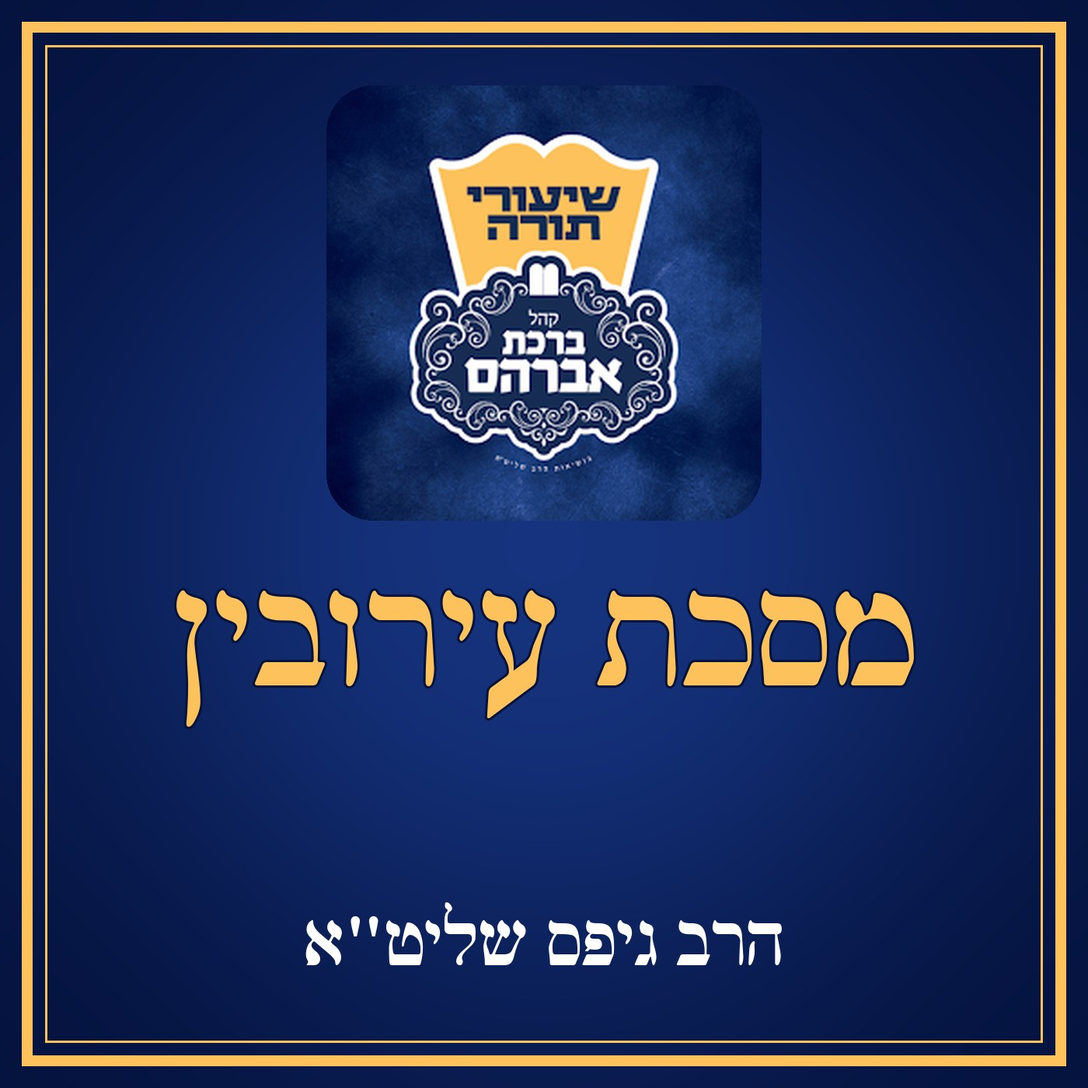
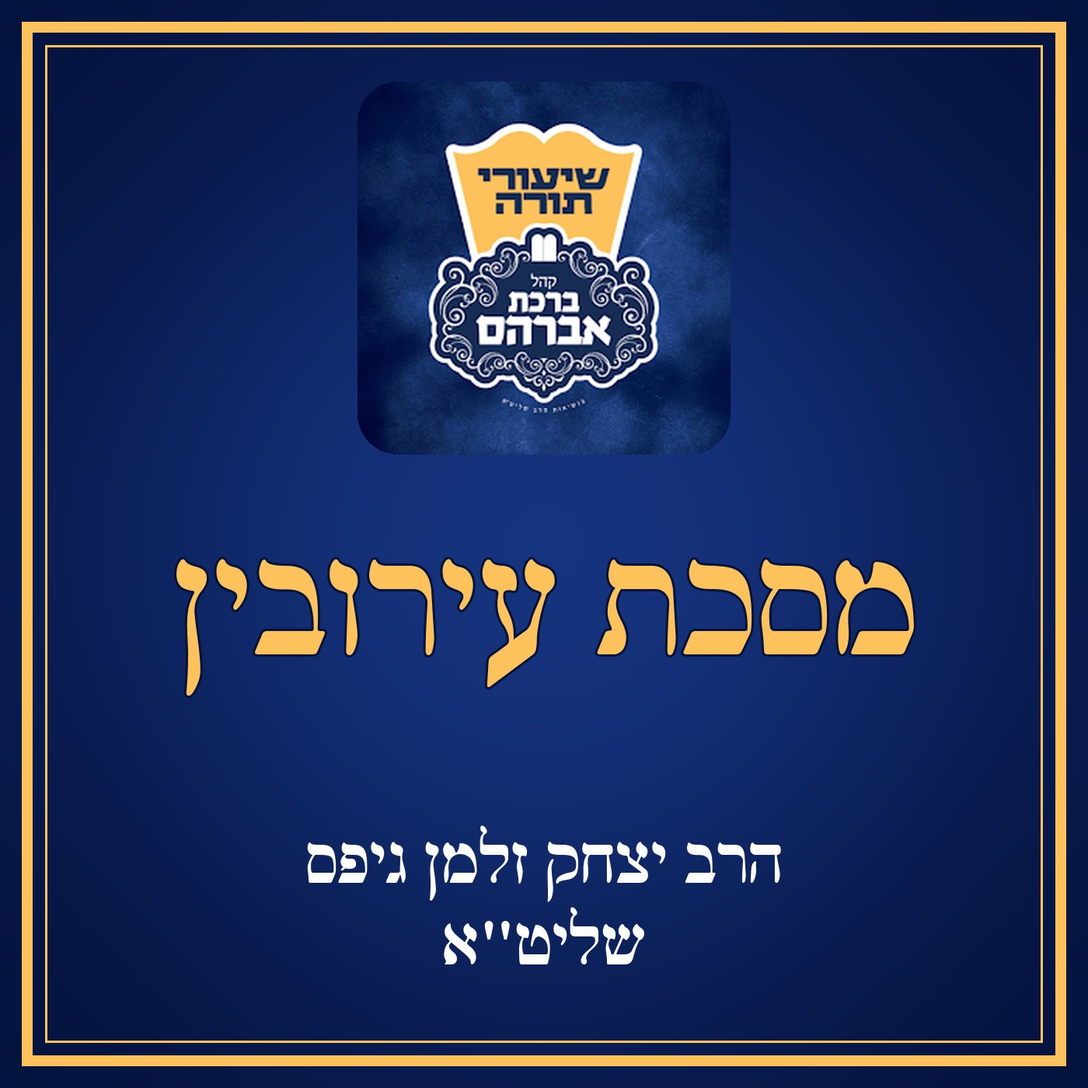
Topic feeds: the Rav's full name (2 lines) on the covers and in the feed titles
Claude-Session: https://claude.ai/code/session_015CinZxjiUn4CXjG9nStS5w

Changed region(s): [[0.1536, 0.0921, 0.86, 0.6757], [0.2764, 0.7679, 0.7371, 0.8907]]

diff --git a/app/podcasts/index.html b/app/podcasts/index.html
@@ -1,26 +1,26 @@
-<!doctype html><meta charset=utf-8><meta name=viewport content='width=device-width,initial-scale=1'><title>Podcast feeds</title><style>body{font-family:sans-serif;margin:16px}td{padding:6px;border-bottom:1px solid #ddd;vertical-align:middle}a{word-break:break-all}</style><h2>Rabbi Gips - podcast feeds by topic</h2><table><tr><td><img src="https://rssfeedcategories.github.io/shiur-site/app/podcasts/covers/mishna-berura.jpg" width="56" height="56"></td><td dir="rtl"><b>משנה ברורה</b><br><small>1045 שיעורים · 2026-11-22</small></td><td><a href="https://rssfeedcategories.github.io/shiur-site/app/podcasts/mishna-berura.xml">https://rssfeedcategories.github.io/shiur-site/app/podcasts/mishna-berura.xml</a></td></tr>
-<tr><td><img src="https://rssfeedcategories.github.io/shiur-site/app/podcasts/covers/mishlei-machzor-1.jpg" width="56" height="56"></td><td dir="rtl"><b>ספר משלי - מחזור א&#x27;</b><br><small>289 שיעורים · 2026-09-10</small></td><td><a href="https://rssfeedcategories.github.io/shiur-site/app/podcasts/mishlei-machzor-1.xml">https://rssfeedcategories.github.io/shiur-site/app/podcasts/mishlei-machzor-1.xml</a></td></tr>
-<tr><td><img src="https://rssfeedcategories.github.io/shiur-site/app/podcasts/covers/kad-hakemach.jpg" width="56" height="56"></td><td dir="rtl"><b>כד הקמח לרבינו בחיי</b><br><small>270 שיעורים · 2025-01-20</small></td><td><a href="https://rssfeedcategories.github.io/shiur-site/app/podcasts/kad-hakemach.xml">https://rssfeedcategories.github.io/shiur-site/app/podcasts/kad-hakemach.xml</a></td></tr>
-<tr><td><img src="https://rssfeedcategories.github.io/shiur-site/app/podcasts/covers/gemara-shabbos.jpg" width="56" height="56"></td><td dir="rtl"><b>מסכת שבת - שיעור יומי גמרא</b><br><small>211 שיעורים · 2024-12-20</small></td><td><a href="https://rssfeedcategories.github.io/shiur-site/app/podcasts/gemara-shabbos.xml">https://rssfeedcategories.github.io/shiur-site/app/podcasts/gemara-shabbos.xml</a></td></tr>
-<tr><td><img src="https://rssfeedcategories.github.io/shiur-site/app/podcasts/covers/gemara-kiddushin.jpg" width="56" height="56"></td><td dir="rtl"><b>מסכת קידושין - שיעור יומי גמרא</b><br><small>180 שיעורים · 2023-10-13</small></td><td><a href="https://rssfeedcategories.github.io/shiur-site/app/podcasts/gemara-kiddushin.xml">https://rssfeedcategories.github.io/shiur-site/app/podcasts/gemara-kiddushin.xml</a></td></tr>
-<tr><td><img src="https://rssfeedcategories.github.io/shiur-site/app/podcasts/covers/chovos-halevavos.jpg" width="56" height="56"></td><td dir="rtl"><b>חובות הלבבות</b><br><small>169 שיעורים · 2023-07-28</small></td><td><a href="https://rssfeedcategories.github.io/shiur-site/app/podcasts/chovos-halevavos.xml">https://rssfeedcategories.github.io/shiur-site/app/podcasts/chovos-halevavos.xml</a></td></tr>
-<tr><td><img src="https://rssfeedcategories.github.io/shiur-site/app/podcasts/covers/tefillah.jpg" width="56" height="56"></td><td dir="rtl"><b>תפילה</b><br><small>166 שיעורים · 2022-08-05</small></td><td><a href="https://rssfeedcategories.github.io/shiur-site/app/podcasts/tefillah.xml">https://rssfeedcategories.github.io/shiur-site/app/podcasts/tefillah.xml</a></td></tr>
-<tr><td><img src="https://rssfeedcategories.github.io/shiur-site/app/podcasts/covers/gemara-pesachim.jpg" width="56" height="56"></td><td dir="rtl"><b>מסכת פסחים - שיעור יומי גמרא</b><br><small>161 שיעורים · 2026-03-05</small></td><td><a href="https://rssfeedcategories.github.io/shiur-site/app/podcasts/gemara-pesachim.xml">https://rssfeedcategories.github.io/shiur-site/app/podcasts/gemara-pesachim.xml</a></td></tr>
-<tr><td><img src="https://rssfeedcategories.github.io/shiur-site/app/podcasts/covers/gemara-eruvin.jpg" width="56" height="56"></td><td dir="rtl"><b>מסכת עירובין - שיעור יומי גמרא</b><br><small>145 שיעורים · 2025-07-22</small></td><td><a href="https://rssfeedcategories.github.io/shiur-site/app/podcasts/gemara-eruvin.xml">https://rssfeedcategories.github.io/shiur-site/app/podcasts/gemara-eruvin.xml</a></td></tr>
-<tr><td><img src="https://rssfeedcategories.github.io/shiur-site/app/podcasts/covers/kuzari.jpg" width="56" height="56"></td><td dir="rtl"><b>ספר הכוזרי</b><br><small>130 שיעורים · 2023-01-18</small></td><td><a href="https://rssfeedcategories.github.io/shiur-site/app/podcasts/kuzari.xml">https://rssfeedcategories.github.io/shiur-site/app/podcasts/kuzari.xml</a></td></tr>
-<tr><td><img src="https://rssfeedcategories.github.io/shiur-site/app/podcasts/covers/dvar-torah-parsha.jpg" width="56" height="56"></td><td dir="rtl"><b>ד&quot;ת על הפרשה</b><br><small>113 שיעורים · 2026-11-20</small></td><td><a href="https://rssfeedcategories.github.io/shiur-site/app/podcasts/dvar-torah-parsha.xml">https://rssfeedcategories.github.io/shiur-site/app/podcasts/dvar-torah-parsha.xml</a></td></tr>
-<tr><td><img src="https://rssfeedcategories.github.io/shiur-site/app/podcasts/covers/shaarei-teshuva.jpg" width="56" height="56"></td><td dir="rtl"><b>שערי תשובה</b><br><small>111 שיעורים · 2026-09-24</small></td><td><a href="https://rssfeedcategories.github.io/shiur-site/app/podcasts/shaarei-teshuva.xml">https://rssfeedcategories.github.io/shiur-site/app/podcasts/shaarei-teshuva.xml</a></td></tr>
-<tr><td><img src="https://rssfeedcategories.github.io/shiur-site/app/podcasts/covers/gemara-yoma.jpg" width="56" height="56"></td><td dir="rtl"><b>מסכת יומא - שיעור יומי גמרא</b><br><small>109 שיעורים · 2026-09-30</small></td><td><a href="https://rssfeedcategories.github.io/shiur-site/app/podcasts/gemara-yoma.xml">https://rssfeedcategories.github.io/shiur-site/app/podcasts/gemara-yoma.xml</a></td></tr>
-<tr><td><img src="https://rssfeedcategories.github.io/shiur-site/app/podcasts/covers/inyanei-shabbos.jpg" width="56" height="56"></td><td dir="rtl"><b>עניני שבת קודש</b><br><small>109 שיעורים · 2023-07-03</small></td><td><a href="https://rssfeedcategories.github.io/shiur-site/app/podcasts/inyanei-shabbos.xml">https://rssfeedcategories.github.io/shiur-site/app/podcasts/inyanei-shabbos.xml</a></td></tr>
-<tr><td><img src="https://rssfeedcategories.github.io/shiur-site/app/podcasts/covers/koheles.jpg" width="56" height="56"></td><td dir="rtl"><b>ספר קהלת</b><br><small>105 שיעורים · 2025-04-09</small></td><td><a href="https://rssfeedcategories.github.io/shiur-site/app/podcasts/koheles.xml">https://rssfeedcategories.github.io/shiur-site/app/podcasts/koheles.xml</a></td></tr>
-<tr><td><img src="https://rssfeedcategories.github.io/shiur-site/app/podcasts/covers/shmiras-halashon.jpg" width="56" height="56"></td><td dir="rtl"><b>שמירת הלשון</b><br><small>94 שיעורים · 2023-10-17</small></td><td><a href="https://rssfeedcategories.github.io/shiur-site/app/podcasts/shmiras-halashon.xml">https://rssfeedcategories.github.io/shiur-site/app/podcasts/shmiras-halashon.xml</a></td></tr>
-<tr><td><img src="https://rssfeedcategories.github.io/shiur-site/app/podcasts/covers/gemara-brachos.jpg" width="56" height="56"></td><td dir="rtl"><b>מסכת ברכות - שיעור יומי גמרא</b><br><small>89 שיעורים · 2024-02-15</small></td><td><a href="https://rssfeedcategories.github.io/shiur-site/app/podcasts/gemara-brachos.xml">https://rssfeedcategories.github.io/shiur-site/app/podcasts/gemara-brachos.xml</a></td></tr>
-<tr><td><img src="https://rssfeedcategories.github.io/shiur-site/app/podcasts/covers/hachana-yom-tov.jpg" width="56" height="56"></td><td dir="rtl"><b>הכנה ליו&quot;ט</b><br><small>68 שיעורים · 2026-09-23</small></td><td><a href="https://rssfeedcategories.github.io/shiur-site/app/podcasts/hachana-yom-tov.xml">https://rssfeedcategories.github.io/shiur-site/app/podcasts/hachana-yom-tov.xml</a></td></tr>
-<tr><td><img src="https://rssfeedcategories.github.io/shiur-site/app/podcasts/covers/chofetz-chaim.jpg" width="56" height="56"></td><td dir="rtl"><b>חפץ חיים</b><br><small>57 שיעורים · 2023-05-03</small></td><td><a href="https://rssfeedcategories.github.io/shiur-site/app/podcasts/chofetz-chaim.xml">https://rssfeedcategories.github.io/shiur-site/app/podcasts/chofetz-chaim.xml</a></td></tr>
-<tr><td><img src="https://rssfeedcategories.github.io/shiur-site/app/podcasts/covers/shiur-klali.jpg" width="56" height="56"></td><td dir="rtl"><b>שיעור כללי</b><br><small>40 שיעורים · 2026-11-22</small></td><td><a href="https://rssfeedcategories.github.io/shiur-site/app/podcasts/shiur-klali.xml">https://rssfeedcategories.github.io/shiur-site/app/podcasts/shiur-klali.xml</a></td></tr>
-<tr><td><img src="https://rssfeedcategories.github.io/shiur-site/app/podcasts/covers/gemara-shekalim.jpg" width="56" height="56"></td><td dir="rtl"><b>מסכת שקלים - שיעור יומי גמרא</b><br><small>32 שיעורים · 2026-04-23</small></td><td><a href="https://rssfeedcategories.github.io/shiur-site/app/podcasts/gemara-shekalim.xml">https://rssfeedcategories.github.io/shiur-site/app/podcasts/gemara-shekalim.xml</a></td></tr>
-<tr><td><img src="https://rssfeedcategories.github.io/shiur-site/app/podcasts/covers/gemara-sukkah.jpg" width="56" height="56"></td><td dir="rtl"><b>מסכת סוכה - שיעור יומי גמרא</b><br><small>30 שיעורים · 2026-11-23</small></td><td><a href="https://rssfeedcategories.github.io/shiur-site/app/podcasts/gemara-sukkah.xml">https://rssfeedcategories.github.io/shiur-site/app/podcasts/gemara-sukkah.xml</a></td></tr>
-<tr><td><img src="https://rssfeedcategories.github.io/shiur-site/app/podcasts/covers/mishlei-machzor-2.jpg" width="56" height="56"></td><td dir="rtl"><b>ספר משלי - מחזור ב&#x27;</b><br><small>30 שיעורים · 2026-11-22</small></td><td><a href="https://rssfeedcategories.github.io/shiur-site/app/podcasts/mishlei-machzor-2.xml">https://rssfeedcategories.github.io/shiur-site/app/podcasts/mishlei-machzor-2.xml</a></td></tr>
-<tr><td><img src="https://rssfeedcategories.github.io/shiur-site/app/podcasts/covers/mivchar-hapeninim.jpg" width="56" height="56"></td><td dir="rtl"><b>מבחר הפנינים</b><br><small>22 שיעורים · 2026-07-21</small></td><td><a href="https://rssfeedcategories.github.io/shiur-site/app/podcasts/mivchar-hapeninim.xml">https://rssfeedcategories.github.io/shiur-site/app/podcasts/mivchar-hapeninim.xml</a></td></tr>
-<tr><td><img src="https://rssfeedcategories.github.io/shiur-site/app/podcasts/covers/shonos.jpg" width="56" height="56"></td><td dir="rtl"><b>שונות</b><br><small>11 שיעורים · 2026-10-19</small></td><td><a href="https://rssfeedcategories.github.io/shiur-site/app/podcasts/shonos.xml">https://rssfeedcategories.github.io/shiur-site/app/podcasts/shonos.xml</a></td></tr>
-<tr><td><img src="https://rssfeedcategories.github.io/shiur-site/app/podcasts/covers/shalom-bayis.jpg" width="56" height="56"></td><td dir="rtl"><b>שלום בית</b><br><small>5 שיעורים · 2026-01-31</small></td><td><a href="https://rssfeedcategories.github.io/shiur-site/app/podcasts/shalom-bayis.xml">https://rssfeedcategories.github.io/shiur-site/app/podcasts/shalom-bayis.xml</a></td></tr></table>
+<!doctype html><meta charset=utf-8><meta name=viewport content='width=device-width,initial-scale=1'><title>Podcast feeds</title><style>body{font-family:sans-serif;margin:16px}td{padding:6px;border-bottom:1px solid #ddd;vertical-align:middle}a{word-break:break-all}</style><h2>Rabbi Gips - podcast feeds by topic</h2><table><tr><td><img src="https://rssfeedcategories.github.io/shiur-site/app/podcasts/covers/mishna-berura.jpg" style="width:56px;height:56px"></td><td dir="rtl"><b>משנה ברורה</b><br><small>1045 שיעורים · 2026-11-22</small></td><td><a href="https://rssfeedcategories.github.io/shiur-site/app/podcasts/mishna-berura.xml">https://rssfeedcategories.github.io/shiur-site/app/podcasts/mishna-berura.xml</a></td></tr>
+<tr><td><img src="https://rssfeedcategories.github.io/shiur-site/app/podcasts/covers/mishlei-machzor-1.jpg" style="width:56px;height:56px"></td><td dir="rtl"><b>ספר משלי - מחזור א&#x27;</b><br><small>289 שיעורים · 2026-09-10</small></td><td><a href="https://rssfeedcategories.github.io/shiur-site/app/podcasts/mishlei-machzor-1.xml">https://rssfeedcategories.github.io/shiur-site/app/podcasts/mishlei-machzor-1.xml</a></td></tr>
+<tr><td><img src="https://rssfeedcategories.github.io/shiur-site/app/podcasts/covers/kad-hakemach.jpg" style="width:56px;height:56px"></td><td dir="rtl"><b>כד הקמח לרבינו בחיי</b><br><small>270 שיעורים · 2025-01-20</small></td><td><a href="https://rssfeedcategories.github.io/shiur-site/app/podcasts/kad-hakemach.xml">https://rssfeedcategories.github.io/shiur-site/app/podcasts/kad-hakemach.xml</a></td></tr>
+<tr><td><img src="https://rssfeedcategories.github.io/shiur-site/app/podcasts/covers/gemara-shabbos.jpg" style="width:56px;height:56px"></td><td dir="rtl"><b>מסכת שבת - שיעור יומי גמרא</b><br><small>211 שיעורים · 2024-12-20</small></td><td><a href="https://rssfeedcategories.github.io/shiur-site/app/podcasts/gemara-shabbos.xml">https://rssfeedcategories.github.io/shiur-site/app/podcasts/gemara-shabbos.xml</a></td></tr>
+<tr><td><img src="https://rssfeedcategories.github.io/shiur-site/app/podcasts/covers/gemara-kiddushin.jpg" style="width:56px;height:56px"></td><td dir="rtl"><b>מסכת קידושין - שיעור יומי גמרא</b><br><small>180 שיעורים · 2023-10-13</small></td><td><a href="https://rssfeedcategories.github.io/shiur-site/app/podcasts/gemara-kiddushin.xml">https://rssfeedcategories.github.io/shiur-site/app/podcasts/gemara-kiddushin.xml</a></td></tr>
+<tr><td><img src="https://rssfeedcategories.github.io/shiur-site/app/podcasts/covers/chovos-halevavos.jpg" style="width:56px;height:56px"></td><td dir="rtl"><b>חובות הלבבות</b><br><small>169 שיעורים · 2023-07-28</small></td><td><a href="https://rssfeedcategories.github.io/shiur-site/app/podcasts/chovos-halevavos.xml">https://rssfeedcategories.github.io/shiur-site/app/podcasts/chovos-halevavos.xml</a></td></tr>
+<tr><td><img src="https://rssfeedcategories.github.io/shiur-site/app/podcasts/covers/tefillah.jpg" style="width:56px;height:56px"></td><td dir="rtl"><b>תפילה</b><br><small>166 שיעורים · 2022-08-05</small></td><td><a href="https://rssfeedcategories.github.io/shiur-site/app/podcasts/tefillah.xml">https://rssfeedcategories.github.io/shiur-site/app/podcasts/tefillah.xml</a></td></tr>
+<tr><td><img src="https://rssfeedcategories.github.io/shiur-site/app/podcasts/covers/gemara-pesachim.jpg" style="width:56px;height:56px"></td><td dir="rtl"><b>מסכת פסחים - שיעור יומי גמרא</b><br><small>161 שיעורים · 2026-03-05</small></td><td><a href="https://rssfeedcategories.github.io/shiur-site/app/podcasts/gemara-pesachim.xml">https://rssfeedcategories.github.io/shiur-site/app/podcasts/gemara-pesachim.xml</a></td></tr>
+<tr><td><img src="https://rssfeedcategories.github.io/shiur-site/app/podcasts/covers/gemara-eruvin.jpg" style="width:56px;height:56px"></td><td dir="rtl"><b>מסכת עירובין - שיעור יומי גמרא</b><br><small>145 שיעורים · 2025-07-22</small></td><td><a href="https://rssfeedcategories.github.io/shiur-site/app/podcasts/gemara-eruvin.xml">https://rssfeedcategories.github.io/shiur-site/app/podcasts/gemara-eruvin.xml</a></td></tr>
+<tr><td><img src="https://rssfeedcategories.github.io/shiur-site/app/podcasts/covers/kuzari.jpg" style="width:56px;height:56px"></td><td dir="rtl"><b>ספר הכוזרי</b><br><small>130 שיעורים · 2023-01-18</small></td><td><a href="https://rssfeedcategories.github.io/shiur-site/app/podcasts/kuzari.xml">https://rssfeedcategories.github.io/shiur-site/app/podcasts/kuzari.xml</a></td></tr>
+<tr><td><img src="https://rssfeedcategories.github.io/shiur-site/app/podcasts/covers/dvar-torah-parsha.jpg" style="width:56px;height:56px"></td><td dir="rtl"><b>ד&quot;ת על הפרשה</b><br><small>113 שיעורים · 2026-11-20</small></td><td><a href="https://rssfeedcategories.github.io/shiur-site/app/podcasts/dvar-torah-parsha.xml">https://rssfeedcategories.github.io/shiur-site/app/podcasts/dvar-torah-parsha.xml</a></td></tr>
+<tr><td><img src="https://rssfeedcategories.github.io/shiur-site/app/podcasts/covers/shaarei-teshuva.jpg" style="width:56px;height:56px"></td><td dir="rtl"><b>שערי תשובה</b><br><small>111 שיעורים · 2026-09-24</small></td><td><a href="https://rssfeedcategories.github.io/shiur-site/app/podcasts/shaarei-teshuva.xml">https://rssfeedcategories.github.io/shiur-site/app/podcasts/shaarei-teshuva.xml</a></td></tr>
+<tr><td><img src="https://rssfeedcategories.github.io/shiur-site/app/podcasts/covers/gemara-yoma.jpg" style="width:56px;height:56px"></td><td dir="rtl"><b>מסכת יומא - שיעור יומי גמרא</b><br><small>109 שיעורים · 2026-09-30</small></td><td><a href="https://rssfeedcategories.github.io/shiur-site/app/podcasts/gemara-yoma.xml">https://rssfeedcategories.github.io/shiur-site/app/podcasts/gemara-yoma.xml</a></td></tr>
+<tr><td><img src="https://rssfeedcategories.github.io/shiur-site/app/podcasts/covers/inyanei-shabbos.jpg" style="width:56px;height:56px"></td><td dir="rtl"><b>עניני שבת קודש</b><br><small>109 שיעורים · 2023-07-03</small></td><td><a href="https://rssfeedcategories.github.io/shiur-site/app/podcasts/inyanei-shabbos.xml">https://rssfeedcategories.github.io/shiur-site/app/podcasts/inyanei-shabbos.xml</a></td></tr>
+<tr><td><img src="https://rssfeedcategories.github.io/shiur-site/app/podcasts/covers/koheles.jpg" style="width:56px;height:56px"></td><td dir="rtl"><b>ספר קהלת</b><br><small>105 שיעורים · 2025-04-09</small></td><td><a href="https://rssfeedcategories.github.io/shiur-site/app/podcasts/koheles.xml">https://rssfeedcategories.github.io/shiur-site/app/podcasts/koheles.xml</a></td></tr>
+<tr><td><img src="https://rssfeedcategories.github.io/shiur-site/app/podcasts/covers/shmiras-halashon.jpg" style="width:56px;height:56px"></td><td dir="rtl"><b>שמירת הלשון</b><br><small>94 שיעורים · 2023-10-17</small></td><td><a href="https://rssfeedcategories.github.io/shiur-site/app/podcasts/shmiras-halashon.xml">https://rssfeedcategories.github.io/shiur-site/app/podcasts/shmiras-halashon.xml</a></td></tr>
+<tr><td><img src="https://rssfeedcategories.github.io/shiur-site/app/podcasts/covers/gemara-brachos.jpg" style="width:56px;height:56px"></td><td dir="rtl"><b>מסכת ברכות - שיעור יומי גמרא</b><br><small>89 שיעורים · 2024-02-15</small></td><td><a href="https://rssfeedcategories.github.io/shiur-site/app/podcasts/gemara-brachos.xml">https://rssfeedcategories.github.io/shiur-site/app/podcasts/gemara-brachos.xml</a></td></tr>
+<tr><td><img src="https://rssfeedcategories.github.io/shiur-site/app/podcasts/covers/hachana-yom-tov.jpg" style="width:56px;height:56px"></td><td dir="rtl"><b>הכנה ליו&quot;ט</b><br><small>68 שיעורים · 2026-09-23</small></td><td><a href="https://rssfeedcategories.github.io/shiur-site/app/podcasts/hachana-yom-tov.xml">https://rssfeedcategories.github.io/shiur-site/app/podcasts/hachana-yom-tov.xml</a></td></tr>
+<tr><td><img src="https://rssfeedcategories.github.io/shiur-site/app/podcasts/covers/chofetz-chaim.jpg" style="width:56px;height:56px"></td><td dir="rtl"><b>חפץ חיים</b><br><small>57 שיעורים · 2023-05-03</small></td><td><a href="https://rssfeedcategories.github.io/shiur-site/app/podcasts/chofetz-chaim.xml">https://rssfeedcategories.github.io/shiur-site/app/podcasts/chofetz-chaim.xml</a></td></tr>
+<tr><td><img src="https://rssfeedcategories.github.io/shiur-site/app/podcasts/covers/shiur-klali.jpg" style="width:56px;height:56px"></td><td dir="rtl"><b>שיעור כללי</b><br><small>40 שיעורים · 2026-11-22</small></td><td><a href="https://rssfeedcategories.github.io/shiur-site/app/podcasts/shiur-klali.xml">https://rssfeedcategories.github.io/shiur-site/app/podcasts/shiur-klali.xml</a></td></tr>
+<tr><td><img src="https://rssfeedcategories.github.io/shiur-site/app/podcasts/covers/gemara-shekalim.jpg" style="width:56px;height:56px"></td><td dir="rtl"><b>מסכת שקלים - שיעור יומי גמרא</b><br><small>32 שיעורים · 2026-04-23</small></td><td><a href="https://rssfeedcategories.github.io/shiur-site/app/podcasts/gemara-shekalim.xml">https://rssfeedcategories.github.io/shiur-site/app/podcasts/gemara-shekalim.xml</a></td></tr>
+<tr><td><img src="https://rssfeedcategories.github.io/shiur-site/app/podcasts/covers/gemara-sukkah.jpg" style="width:56px;height:56px"></td><td dir="rtl"><b>מסכת סוכה - שיעור יומי גמרא</b><br><small>30 שיעורים · 2026-11-23</small></td><td><a href="https://rssfeedcategories.github.io/shiur-site/app/podcasts/gemara-sukkah.xml">https://rssfeedcategories.github.io/shiur-site/app/podcasts/gemara-sukkah.xml</a></td></tr>
+<tr><td><img src="https://rssfeedcategories.github.io/shiur-site/app/podcasts/covers/mishlei-machzor-2.jpg" style="width:56px;height:56px"></td><td dir="rtl"><b>ספר משלי - מחזור ב&#x27;</b><br><small>30 שיעורים · 2026-11-22</small></td><td><a href="https://rssfeedcategories.github.io/shiur-site/app/podcasts/mishlei-machzor-2.xml">https://rssfeedcategories.github.io/shiur-site/app/podcasts/mishlei-machzor-2.xml</a></td></tr>
+<tr><td><img src="https://rssfeedcategories.github.io/shiur-site/app/podcasts/covers/mivchar-hapeninim.jpg" style="width:56px;height:56px"></td><td dir="rtl"><b>מבחר הפנינים</b><br><small>22 שיעורים · 2026-07-21</small></td><td><a href="https://rssfeedcategories.github.io/shiur-site/app/podcasts/mivchar-hapeninim.xml">https://rssfeedcategories.github.io/shiur-site/app/podcasts/mivchar-hapeninim.xml</a></td></tr>
+<tr><td><img src="https://rssfeedcategories.github.io/shiur-site/app/podcasts/covers/shonos.jpg" style="width:56px;height:56px"></td><td dir="rtl"><b>שונות</b><br><small>11 שיעורים · 2026-10-19</small></td><td><a href="https://rssfeedcategories.github.io/shiur-site/app/podcasts/shonos.xml">https://rssfeedcategories.github.io/shiur-site/app/podcasts/shonos.xml</a></td></tr>
+<tr><td><img src="https://rssfeedcategories.github.io/shiur-site/app/podcasts/covers/shalom-bayis.jpg" style="width:56px;height:56px"></td><td dir="rtl"><b>שלום בית</b><br><small>5 שיעורים · 2026-01-31</small></td><td><a href="https://rssfeedcategories.github.io/shiur-site/app/podcasts/shalom-bayis.xml">https://rssfeedcategories.github.io/shiur-site/app/podcasts/shalom-bayis.xml</a></td></tr></table>

diff --git a/app/tools/build_podcasts.py b/app/tools/build_podcasts.py
@@ -18,7 +18,7 @@ from xml.sax.saxutils import escape
 
 SITE = "https://rssfeedcategories.github.io/shiur-site/app/podcasts/"
 OUT = "podcasts"
-AUTHOR = "Rabbi Gips - Birkas Avrohom"
+AUTHOR = "Rabbi Yitzchok Zalmen Gips - Birkas Avrohom"
 GEMARA = "שיעור יומי - גמרא"
 
 # English slugs for the file names (feed URLs). Unknown names get a short hash.
@@ -96,8 +96,8 @@ def main():
         eps.sort(key=lambda e: e.get("d") or "", reverse=True)       # newest first
         cover = f"covers/{slug}.jpg"
         img = SITE + cover if os.path.exists(os.path.join(OUT, cover)) else default_img
-        full_title = f"{title} | הרב גיפס - ברכת אברהם"
-        desc = f"שיעורי הרב גיפס שליט\"א - {title}. ברכת אברהם."
+        full_title = f"{title} | הרב יצחק זלמן גיפס שליט\"א"
+        desc = f"שיעורי הרב יצחק זלמן גיפס שליט\"א - {title}. קהל ברכת אברהם."
         items = []
         for e in eps:
             dur = secs(e.get("dur"))
@@ -146,7 +146,7 @@ def main():
     if not os.path.exists(p) or open(p, encoding="utf8").read() != idx:
         open(p, "w", encoding="utf8").write(idx)
     rows = "\n".join(
-        f'<tr><td><img src="{html.escape(f["cover"])}" width="56" height="56"></td>'
+        f'<tr><td><img src="{html.escape(f["cover"])}" style="width:56px;height:56px"></td>'
         f'<td dir="rtl"><b>{html.escape(f["title"])}</b><br><small>{f["episodes"]} שיעורים · {f["newest"]}</small></td>'
         f'<td><a href="{html.escape(f["url"])}">{html.escape(f["url"])}</a></td></tr>' for f in index)
     page = ("<!doctype html><meta charset=utf-8><meta name=viewport content='width=device-width,initial-scale=1'>"

diff --git a/app/tools/make_podcast_covers.py b/app/tools/make_podcast_covers.py
@@ -47,12 +47,12 @@ def cover(title, out):
     d = ImageDraw.Draw(img)
     d.rectangle([28, 28, S - 29, S - 29], outline=GOLD, width=14)
     d.rectangle([58, 58, S - 59, S - 59], outline=GOLD, width=3)
-    logo = Image.open(LOGO).convert("RGB").resize((560, 560), Image.LANCZOS)
+    logo = Image.open(LOGO).convert("RGB").resize((480, 480), Image.LANCZOS)
     mask = Image.new("L", logo.size, 0)
-    ImageDraw.Draw(mask).rounded_rectangle([0, 0, 559, 559], radius=60, fill=255)
-    img.paste(logo, ((S - 560) // 2, 110), mask)
+    ImageDraw.Draw(mask).rounded_rectangle([0, 0, 479, 479], radius=52, fill=255)
+    img.paste(logo, ((S - 480) // 2, 105), mask)
     ls = lines_for(title)
-    y = 730 if len(ls) == 1 else 700
+    y = 690 if len(ls) == 1 else 625
     for ln in ls:
         f = fit(d, ln, S - 200, 190 if len(ls) == 1 else 150)
         w = d.textlength(ln, font=f, direction="rtl")
@@ -60,10 +60,11 @@ def cover(title, out):
         d.text(((S - w) / 2, y), ln, font=f, fill=GOLD, direction="rtl",
                stroke_width=3, stroke_fill=NAVY)
         y += h + 30
-    sub = 'הרב גיפס שליט"א'
-    f = ImageFont.truetype(FONT, 90)
-    w = d.textlength(sub, font=f, direction="rtl")
-    d.text(((S - w) / 2, S - 230), sub, font=f, fill=WHITE, direction="rtl")
+    # the Rav's name on 2 lines (Izzy, Nov 23)
+    f = ImageFont.truetype(FONT, 82)
+    for sub, sy in (("הרב יצחק זלמן גיפס", S - 330), ('שליט"א', S - 225)):
+        w = d.textlength(sub, font=f, direction="rtl")
+        d.text(((S - w) / 2, sy), sub, font=f, fill=WHITE, direction="rtl")
     img.save(out, "JPEG", quality=88)
 
 
